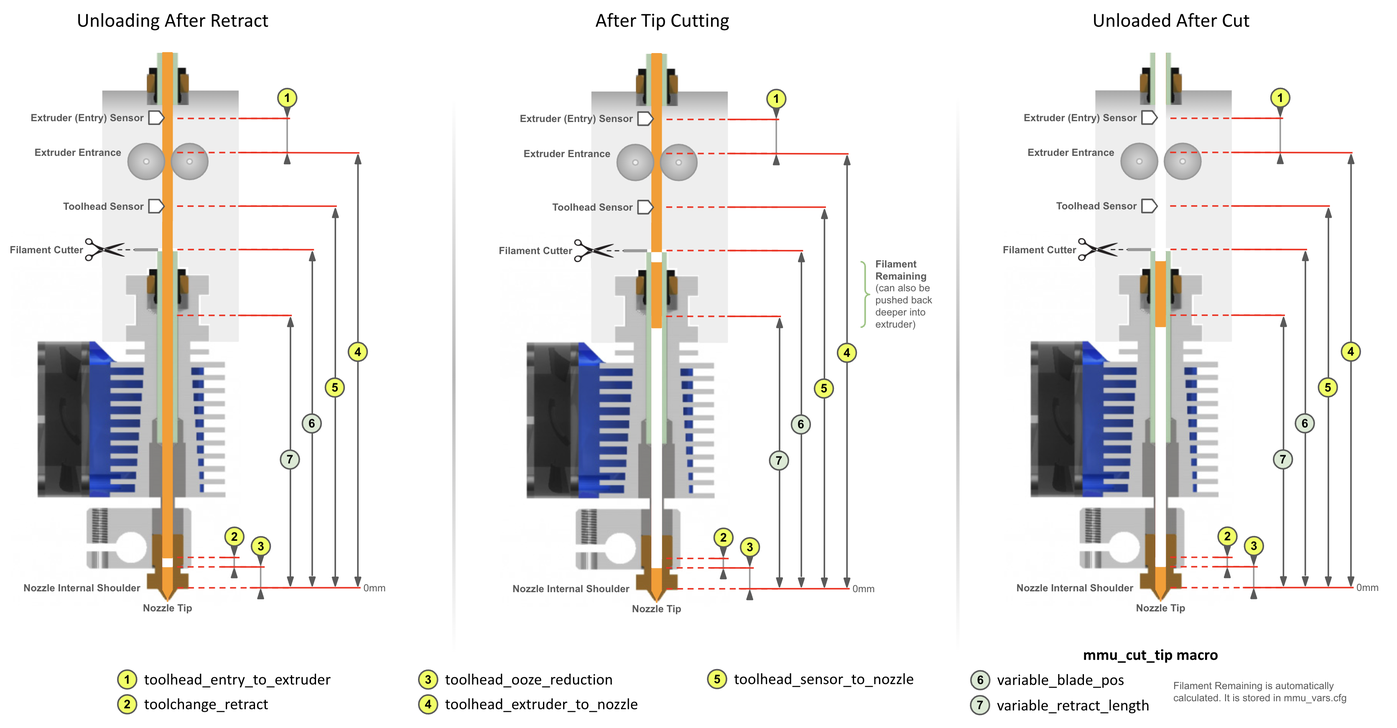
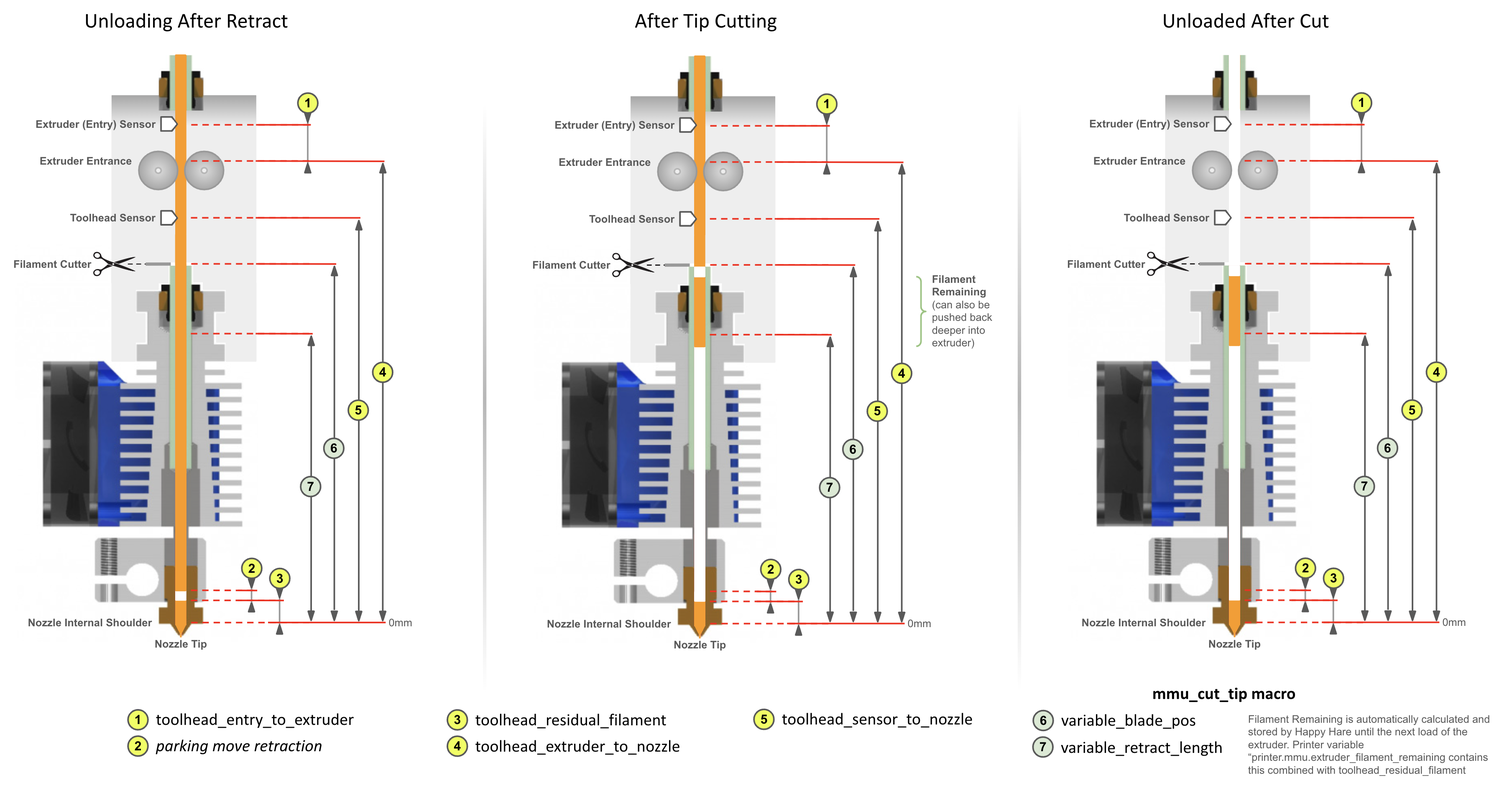
update

diff --git a/Blobbing-and-Stringing.md b/Blobbing-and-Stringing.md
@@ -1,3 +1,14 @@
+#### Page Sections:
+- [Correct Meaning of Key Dimensions](#---correct-meaning-of-key-dimensions)
+- [Calibrating Toolhead](#---calibrating-toolhead)
+  - [Final Blob Tuning](#---final-blob-tuning---toolhead_ooze_reduction)
+  - [Toolchange Retraction](#---tool-change-retraction)
+  - [Z-Hop and Ramping](#---z-hop-and-ramping)
+- [Summary of Tuning Steps](#---summary-of-tuning-steps)
+- [Cleaning Extruder with Cold Pull](#---cleaning-extruder-with-a-cold-pull)
+
+<br>
+
 This discussion assumes that you have initial setup complete and are now ready to tune the quality of your prints. Although some of the information contained here is useful early in your journey it will make a lot more sense once you have some experience with default or "borrowed" toolhead parameters.
 
 This guide will then guide you to optimize a few critical parameters for print qualit that avoids blobbing on your wipetower or print and stringing when moving to change tool.
@@ -6,6 +17,7 @@ Specifically in this guide you will learn how to correctly set the following par
 - `toolhead_extruder_to_nozzle`
 - `toolhead_sensor_to_nozzle`
 - `toolhead_entry_to_extruder`
+- `toolhead_residual_filament`
 - `toolhead_ooze_reduction`
 
 It will also illustrate how to use z-hop movement/ramping and retraction settings to eliminate blobs and stringing during color changes or EndlessSpool operations in your prints (`mmu/base/mmu_macro_vars.cfg`):
@@ -26,9 +38,9 @@ Firstly it is important to understand that while sensors like a toolhead sensor 
 
 When the extruder is loaded, Happy Hare will move the filament a precise distance from either the extruder gear or the toolhead sensor to the end of the nozzle. This distance is set with `toolhead_extruder_to_nozzle` and/or `toolhead_sensor_to_nozzle` and represents the CAD measured distance in a perfectly clean extruder/nozzle. The reality is that once the extruder is "dirty" this distance changes. This is because some filament is inevitably left behind in the extruder/nozzle shortening this distance. The amount of filament remaining seems to vary greatly from a couple of mm to as much as 15mm in some high flow hotends! In addition, CHT type nozzles use an insert that is not accounted for in external toolhead measurements and often neither in CAD, which equally effects the accuraacy of these measurements. 
 
-To account for this, Happy Hare defines `toolhead_extruder_to_nozzle` and `toolhead_sensor_to_nozzle` as theoretical and thus should be able to be pulled form CAD drawings or other users. It uses `toolhead_ooze_reduction` to represent how much to reduce the loading move by for the new filament to butt up against the old without accidently oozing.
+To account for this, Happy Hare defines `toolhead_extruder_to_nozzle` and `toolhead_sensor_to_nozzle` as theoretical and thus should be able to be pulled form CAD drawings or other users. It uses `toolhead_residual_filament` to represent how much to reduce the loading move by for the new filament to butt up against the old without accidently blobbing.
 
-In practice it has been hard to determine these values other than through experimentation and even then it is hard to determine for example, whether to increase `toolhead_ooze_reduction` or reduce `toolhead_sensor_to_nozzle`.
+In practice it has been hard to determine these values other than through experimentation and even then it is hard to determine for example, whether to increase `toolhead_residual_filament` or reduce `toolhead_sensor_to_nozzle`.
 
 Let's run through the important steps in a toolchange (for both tip forming and tip cutting cases) and relate to these parameters:
 
@@ -50,22 +62,26 @@ With toolhead tip cutting the procedure is a little more complex and introduces 
 
 Note that the cut piece of filament remaining and the residual filament are automatically accounted for by Happy Hare so long as you have configured the parameters exactly as defined in this illustration.
 
+> [!TIP] 
+> The printer variable `printer.mmu.extruder_filament_remaining` contains the total length of filament left in the extruder combining both the `toolhead_residual_filament` and length of any cut tip.<br>
+> Related is the printer variable `printer.mmu.toolchange_purge_volume` that calculates the total volume of filament to be purged by summing both the slicer tool map purge volume and the volume of this remaining material.
+
 <br>
 
 > [!IMPORTANT]  
 > 1. The really important reference point is the internal nozzle "shoulder". This is considered the 0mm reference point for most parameters. For CHT nozzle this will be further away from the tip than regular nozzles.
-> 2. You can see how the `toolhead_XXX_to_nozzle` settings and `toolhead_ooze_reduction` are related, so while you can tune the former and ignore latter, it is recommended you use them correctly so that Happy Hare is able to control the filament movement when loading and unloading the toolhead and correctly influence purge volumes.
-> 3. `toolhead_ooze_reduction` is dependent on your extruder and nozzle. High flow and CHT systems generally have a much higher value i.e. more residual filament left over in the extruder) than regular ones.
+> 2. You can see how the `toolhead_XXX_to_nozzle` settings and `toolhead_residual_filament` are related, so while you can tune the former and ignore latter, it is recommended you use them correctly so that Happy Hare is able to control the filament movement when loading and unloading the toolhead and correctly influence purge volumes.
+> 3. `toolhead_residual_filament` is dependent on your extruder and nozzle. High flow and CHT systems generally have a much higher value i.e. more residual filament left over in the extruder) than regular ones.
 
 <br>
 
 ## ![#f03c15](resources/f03c15.png) ![#c5f015](resources/c5f015.png) ![#1589F0](resources/1589F0.png) Calibrating Toolhead
 
-Ok, now you know what the correct meaning of the dimensions are the next question is how to discover them for your setup. For everything other than `toolhead_ooze_reduction` it is possible to use accurate CAD models to measure them (remember to use the internal shoulder in the nozzle). This can be a challenge if using a CHT nozzle as shown below.
+Ok, now you know what the correct meaning of the dimensions are the next question is how to discover them for your setup. For everything other than `toolhead_residual_filament` it is possible to use accurate CAD models to measure them (remember to use the internal shoulder in the nozzle). This can be a challenge if using a CHT nozzle as shown below.
 
 <p align="center"><a href="https://github.com/moggieuk/Happy-Hare/wiki/Blobbing-and-Stringing/CHT_Cutaway.png"><img src="Blobbing-and-Stringing/CHT_Cutaway.png" alt="CHT Cutaway" width="40%"></a></p>
 
-If you have a toolhead sensor there is now an automated way to measure! If not, then you can refer to this wiki in the future, where we will aim to collate verified measurements for common toolhead combinations and once you have those set, you can experiment to discover the correct `toolhead_ooze_reduction` setting.
+If you have a toolhead sensor there is now an automated way to measure! If not, then you can refer to this wiki in the future, where we will aim to collate verified measurements for common toolhead combinations and once you have those set, you can experiment to discover the correct `toolhead_residual_filament` setting.
 
 If you have a toolhead sensor continue reading below.
 
@@ -93,7 +109,7 @@ This will perform a number of probing moves with a cold extruder and report back
 ```
 Reminder:
 1) 'CLEAN=1' with clean extruder for: toolhead_extruder_to_nozzle, toolhead_sensor_to_nozzle (and toolhead_entry_to_extruder)
-2) No flags with dirty extruder (no cut tip) for: toolhead_ooze_reduction (and toolhead_entry_to_extruder)
+2) No flags with dirty extruder (no cut tip) for: toolhead_residual_filament (and toolhead_entry_to_extruder)
 3) 'CUT=1' holding blade in for: variable_blade_pos
 Desired gate should be selected but the filament unloaded
 
@@ -159,18 +175,18 @@ As the tip cutting operation would normally leave additional filament in the too
 
 <br>
 
-### ✅ Step 4: Calibrate ooze reduction (with dirty nozzle)
+### ✅ Step 4: Calibrate residual filament (with dirty nozzle)
 
-Now that the nozzle is “dirty” and simulating the left over material after a filament ejection, it is time to calibrate the ooze reduction variable.
+Now that the nozzle is “dirty” and simulating the left over material after a filament ejection, it is time to calibrate the residual filament parameter.
 
-To do this, run the below command, with no parameters.
+To do this, run the below command, with no arguments.
 
 > MMU\_CALIBRATE\_TOOLHEAD
 ```
 ...blah blah blah...
 -----------------------------------
 Calibration Results (dirty nozzle):
-> toolhead_ooze_reduction: 3.0 (currently: 3.4)
+> toolhead_residual_filament: 3.0 (currently: 3.4)
 -----------------------------------
 New calibrated ooze reduction active until restart. Update mmu_parameters.cfg to persist
 ```
@@ -178,18 +194,19 @@ New calibrated ooze reduction active until restart. Update mmu_parameters.cfg to
 > [!TIP]  
 > 1. You can run a dirty calibration as often as you like and to see if it differs with different filament types, changes you make to your tip forming macro, etc.
 > 2. Just be mindful that filament will grind a little in the gears & the extruder, so make sure you eject the filament fully from your MMU, cut the used portion and try with a new filament segment again.
-> 3. If you are curious, you can also use it as a trick way to measure the "filament_remaining" after tip cutting, validating that you are not cutting molten filament. Just remember to use the SAVE=0 option because you DON'T want to `toolhead_ooze_reduction` to include the cut piece of filament!
+> 3. If you are curious, you can also use it as a trick way to measure the "filament_remaining" after tip cutting, validating that you are not cutting molten filament. Just remember to use the SAVE=0 option because you DON'T want to `toolhead_residual_filament` to include the cut piece of filament!
 > 4. Again you can use the optional command SAVE=0 to skip saving the results in memory. 
 > 5. If you don’t have a filament cutter, the calibration process is done. Make sure you note down the above measurements and update them together with the ones from the first step in your `mmu_parameters.cfg` file. If you do have a filament cutter, make sure you follow step 4 below.  
 > 6. If you have a belay sensor (filament tension/compression sensor) installed on your Bowden path, make sure you “lock” it in place so it doesn’t move. It is important that the filament path length stays static throughout the calibration process. You can either remove it and install a coupler or simply hold it firmly in its fully extended position when the calibration commands are run.
 
-Remember, that the calibrated `toolhead_ooze_reduction` is your starting point. You can still adjust this according to what you see happening with the wipetower with and actual print. See [Tip Forming and Purging](Tip-Forming-and-Purging#tuning-toolhead_ooze_reduction) for details on what to look for.
+> [!IMPORTANT] 
+> Remember, that the calibrated `toolhead_residual_filament` is your starting point. You can still fine tune the reduction in loading length according to what you see happening with the wipetower with and actual print. See [Tip Forming and Purging](Tip-Forming-and-Purging#tuning-toolhead_ooze_reduction) for details on what to look for and how to use `toolhead_ooze_reduction` as the final parameter to tweak load volume. But a word of warning, this should be the very last step and should only be a very small adjustment to optimize blobbing and oozing during tool loading.
 
 <table>
 <tr>
 <td>
 
-Again referring back to the earlier illustrations, the difference between the clean reading and the dirty one is what `toolhead_ooze_reduction` compensates for and represents the residual filament that is always left behind in the extruder. The command will also measure the `toolhead_entry_to_extruder` variable but these should be similar (as in less than 1mm difference) between the two runs. If this is substantially different, you can re-run the calibration routine as the measurement was probably not accurate enough the first time.
+Again referring back to the earlier illustrations, the difference between the clean reading and the dirty one is what `toolhead_residual_filament` compensates for and represents the residual filament that is always left behind in the extruder. The command will also measure the `toolhead_entry_to_extruder` variable but these should be similar (as in less than 1mm difference) between the two runs. If this is substantially different, you can re-run the calibration routine as the measurement was probably not accurate enough the first time.
 
 </td>
 <td width=30%>
@@ -253,7 +270,7 @@ Referencing earlier illustrations, the blade position `variable_blade_pos` can t
   | Order | Option | Description |
   | ----- |------ | ----------- |
   | 1 | `CLEAN=1` | This will calibrate `toolhead_extruder_to_nozzle`, `toolhead_sensor_to_nozzle`, `toolhead_entry_to_extruder` and MUST be run on clean extruder after cold-pull | 
-  | 2 | _none_ | This will calibrate `toolhead_ooze_reduction` and should be run with a dirty extruder where tip has been formed for filament retracted from extruder. It must not be run after tip cutting |
+  | 2 | _none_ | This will calibrate `toolhead_residual_filament` and should be run with a dirty extruder where tip has been formed for filament retracted from extruder. It must not be run after tip cutting |
   | 3 | `CUT=1` | This will calibrate `variable_blade_pos` and suggest `variable_retract_length` for the tip cutting macro. This MUST be run after loading the extruder and manually cutting the filament and running `MMU_EJECT SKIP_TIP=1` to unload without re-running the tip cutting macro |
 
 <br>
@@ -262,18 +279,28 @@ With the toolhead now properly configured you should experience better basic loa
 
 <br>
 
-## ![#f03c15](resources/f03c15.png) ![#c5f015](resources/c5f015.png) ![#1589F0](resources/1589F0.png) Toolhead Retraction
+## ![#f03c15](resources/f03c15.png) ![#c5f015](resources/c5f015.png) ![#1589F0](resources/1589F0.png) Final blob tuning - `toolhead_ooze_reduction`
 
-Incorrect toolhead dimensions contribute most to blobbing problems, but even when perfect, blobbing can still occur when the toolhead is moved fully loaded. Just like when printing, it is often necessary to relax the pressure in the extruder prior to a travel move to prevent the slow oozing that would otherwise occur. 
+Incorrect toolhead dimensions contribute most to blobbing problems, but even when perfect, blobbing can still occur when the toolhead is loaded. The reason might be air pockets or similar in the extruder or a slight variation in the `toolhead_residual_filament`. Therefore once the toolhead is properly calibrated (with likely fixed values), there is one tuning parameter left. 
 
-This is where the `toolchange_retraction` setting comes in. It is set to the filament retraction distance that will be applied immediately before the z-hop move and any travel movements during the toolchange. All the supplied macros will understand this setting and compensate for this accordingly. 
+This parameter `toolhead_ooze_reduction` should start with a value of 0. It can be tuned to further reduce the extruder loading length to completely eliminate blobs on the wipetower. A positive value will DECREASE the load length by that number of mm. Typically a few mm is all that is required and if you find yourself needing more, check your `toolhead_residual_filament` value. Technically this value can be slightly negative - the effect would be to INCREASE the loading length.
+
+The best way to tune this is while actually printing (it can be altered dynamically during a print with `MMU_TEST_CONFIG`). Refer to this [Tip Forming and Purging](Tip-Forming-and-Purging#tuning-toolhead_ooze_reduction) page for more details.
+
+<br>
+
+## ![#f03c15](resources/f03c15.png) ![#c5f015](resources/c5f015.png) ![#1589F0](resources/1589F0.png) Tool change retraction
+
+Just like when printing, it is usually necessary to relax the pressure in the extruder prior to a travel move to prevent the slow oozing that would otherwise occur. 
+
+This is where the `retraction` setting comes in. It is set to the filament retraction distance that will be applied immediately before the z-hop move and any travel movements during the toolchange. All the supplied macros will understand this setting and compensate for this accordingly. Generally 2-3mm of retraction will minimize oozing although it might be a little higher on high flow systems.
 
 At the end of the toolchange process and immediately following the reversal of the z-hop move, the un-retract will occur to correctly pressurise the extruder again. In this manner the extruder is never fully loaded during travel moves and thus oozing is minimized.
 
-The retraction and un-retraction speed is set with the related `toolchange_retraction_speed` parameter and can thus be set independently (often faster) than your general extruder load/unload speeds.
+The retraction and un-retraction speed is set with the related `variable_retract_speed` and `variable_unretract_speed` variables and can thus be set independently (often faster) than your general extruder load/unload speeds.
 
 > [!NOTE]  
-> The toolhead retract is ONLY applied during a print by Happy Hare and is independent of anything performed by the sequence macros.
+> The retraction settings are configured in the MOVEMENT section of `mmu_macro_vars.cfg` and can be specified independently for different operations including toolchange, print complete, pause, cancel, etc. See this section in [Toolchange Movement](Toolchange-Movement#---overview-of-toolhead-parking-movement) for more details.
 
 <br>
 
@@ -281,7 +308,7 @@ The retraction and un-retraction speed is set with the related `toolchange_retra
 
 When a toolchange occurs, it is preferable to move the toolhead away from the print so the hot nozzle isn't left on the print causing marks. 
 
-However, such travel moves can graze the top of the print. This is mitigated by performing a z-hop move (i.e. raising the toolhead) before travelling. The height of the z-hop move is controlled by the `z_hop_height_toolchange` parameter. It is performed immediately after the toolchange retraction, with usually 2mm being plenty to stay clear of the print.
+However, such travel moves can graze the top of the print. This is mitigated by performing a z-hop move (i.e. raising the toolhead) before travelling. The height of the z-hop move is controlled by the `z_hop` parameter in the toolhead parking and movement section of `mmu_macro_vars.cfg`. It is performed immediately after the toolchange retraction (also specified in the same parking and movement section), with usually 1mm being plenty to stay clear of the print.
 
 Despite the retraction and upward movement many filaments will still have a tendency to "string" because a straight up retraction move pulls viscous filament from the nozzle. 
 
@@ -291,12 +318,33 @@ This ramped z-hop move essentially allows for a fast travel move of a greater di
 
 To ensure the toolhead does not go out of the print plate “bounds”, the horizontal movement component will be performed towards the center of the build plate.
 
-The speed of the z-hop move, whether purely vertical or including a ramp is specified with `z_hop_speed`.
+For full details on how to setup parking and thus define z-hop and retraction movements, read [Toolchange Movement](Toolchange-Movement) page.
 
-> [!TIP]  
-> If employing a z-hop ramp, you will likely want to set a fast speed in the `z_hop_speed` parameter similar to your normal printer x/y travel speed. Klipper will always limit your z travel speed to the speed defined in your [printer] section and thus this will not accidentally try to move vertically faster than possible. If you are not using a ramp then then `z_hop_speed` can be your desired vertical movement only.
+<br>
 
-Finally, the acceleration of the travel move when performing a ramp z-hop is set with `z_hop_accel`. Since klipper will limit the speed and accelaration of the z-axis movement you should set to your desired travel speed. This overrides the acceleration used to print the last feature before the tool change (usually external walls) and restores it back to your slicer set acceleration after the z-hop move is done. However, make sure your [printer] `max_accel` value is set within the mechanical limits of your printer!
+## ![#f03c15](resources/f03c15.png) ![#c5f015](resources/c5f015.png) ![#1589F0](resources/1589F0.png) Summary of Tuning Steps
+
+Proceed in this order:<br>
+1. MMU_CALIBRATE_TOOLHEAD settings are defined in `mmu_parameters.cfg`
+2. toolhead_ooze_reduction is defined in `mmu_parameters.cfg`
+3. PARKING_MOVEMENT_SETUP is defined in MOVEMENT section of `mmu_macro_vars.cfg`
+
+```mermaid
+stateDiagram-v2
+    MMU_Operational --> MMU_CALIBRATE_TOOLHEAD
+    state MMU_CALIBRATE_TOOLHEAD { 
+        direction LR
+        toolhead_XXX_to_nozzle --> toolhead_entry_to_extruder
+        toolhead_entry_to_extruder --> toolhead_residual_filament
+    }
+    MMU_CALIBRATE_TOOLHEAD --> toolhead_ooze_reduction
+    toolhead_ooze_reduction --> PARKING_MOVEMENT_SETUP
+    state PARKING_MOVEMENT_SETUP {
+        direction LR
+        retraction --> z_hop
+        z_hop --> z_hop_ramp
+    }
+```
 
 <br>
 

diff --git a/Tip-Forming-and-Purging.md b/Tip-Forming-and-Purging.md
@@ -57,6 +57,9 @@ MMU_TEST_FORM_TIP cooling_moves=5 unloading_speed=15
 
 It might take 40-50 attempts until you start to home in on the optimum values for your particular extruder.
 
+> [!TIP]  
+> Timesaver: If you have an extruder (entry) sensor configured, then select the bypass before tuning tip forming. Then whenever you insert the filament fragment into the extruder it will automatically be loaded ready for the next test (see `bypass_autoload` setting).
+
 > [!IMPORTANT]  
 > The parameters your just set will only be valid until klipper is restarted. To make this persistent, make sure you edit `mmu_marco_vars.cfg` and your chosen settings.
 
@@ -91,15 +94,19 @@ Clicking on the Show advanced settings in the manual purging volume panel will p
 If you enable the Advanced wiping volume option in the Printer settings, Single Extruder MM setup section, the slicer will use the Pigment percentage, ranging from 0 to 1, to define the purge volume for each swap. You can adjust the different values of this option to finely tune the final purging volume. Note that if you have the same profile for filaments of different colors, you’ll need to duplicate those filament profiles and adjust, for each, the pigment percentage value. Don’t forget to select the proper filament profile for each tool.
 
 ### Purging on the Wipe Tower
-Normally the purging logic is performed by the slicer and written into the g-code. The purged filament will be deposited onto the wipe tower (that is why `enable wipe tower` must be checked to access the purge matrix and then disabled if you want to use the volumes but not the wipe tower. 
+Normally the purging logic is performed by the slicer and written into the g-code. The purged filament will be deposited onto the wipe tower (BTW that is why `enable wipe tower` must be checked to access the purge matrix and then disabled if you want to use the volumes but not the wipe tower).
 
-Even with purge volumes setup correctly the configuration of your toolhead parameters also come into play.  Let's assume that you have correctly defined your toolhead geometry [here](Configuration#---toolhead-loading--unloading) noting that these settings are based on the CAD of your toolhead and are not designed to be tunables. Ok, with that said it is still necessary to fine tune the purging process and altough the toolhead dimensions will effect this, the correct parameter to tune is `toolhead_ooze_reduction` defined in `mmu_parameters.cfg`. This controls a "delta" in the theoretical loading distance. Typically this would be 0 or a small positive value to reduce the load distance so that the extruder doesn't prematurely extrude plastic. 
+Even with purge volumes setup correctly the configuration of your toolhead parameters also come into play.  Let's assume that you have correctly defined your toolhead geometry [here](Configuration#---toolhead-loading--unloading) noting that these settings are based on the CAD of your toolhead and are not designed to be tunables. It is still necessary define `toolhead_residual_filament` - the amount of filament naturally left behind in the extruder after filament ejection. In addition if cutting the filament the tip will still be in the extruder. Unfortunately the slicer has no way to know this information and thus it is often necessary to over-compensate and set large purge volumes.
+
+Later we describe alternative methods of purging controlled by Happy Hare that take into account, both the configured `toolhead_residual_filament` and the cut filament piece to intelligently calculate the necessary extra purge based on your particular setup.
+
 
 <br>
 
 ### Tuning `toolhead_ooze_reduction`
-Once you are printing your first multi filament print, check the purge tower to verify that the `toolhead_ooze_reduction` value is well tuned (at that your dimensional settings are correct).  If you notice over extrusion during loads (i.e., plastic blobs on the purge tower after a load) you need to increase the `toolhead_ooze_reduction` value.
-If you notice big gaps on the purge tower after a load, you need to decrease the `toolhead_ooze_reduction` value. Note that although small negative values are allowed, going negative almost certainly means that the `toolhead_extruder_to_nozzle` or `toolhead_sensor_to_nozzle` are too long. Here is an example purge tower here, with values for the `toolhead_ooze_reduction` from 0 to +14 mm. In this example, the proper value seems to be around 5 mm. Note that because there is some uncertainty in this process (because of the filament tip shape), there will be some slight differences even when the value is the same, as shown in the green to grey and white to orange transitions. As explained in [Blobbing and Stringing](Blobbing-and-Stringing) this value represents the residual filament left behind in extruder (and why if cannot physically be negative). Low flow extruders will typically have a value between 1-5mm and with high flow as high as 15mm.
+Once you are printing your first multi filament print, check the purge tower to verify that the toolhead calibration settings including `toolhead_residual_filament` are correct. If you notice over extrusion during loads (i.e., plastic blobs on the purge tower after a load) you can fine tune using the `toolhead_ooze_reduction` setting. This controls a small delta in the theoretical loading distance. Typically this would be 0 or a small positive value to reduce the load distance so that the extruder doesn't prematurely extrude plastic.  If you find you need a negative or large value (>5mm) it is likely that your toolhead calibration dimensions or `toolhead_residual_filament` settings are sub-optimum and it is recommended that you fix these before tuning `toolhead_ooze_reduction`.
+
+To set, if you notice big gaps on the purge tower after a load, you need to decrease the `toolhead_ooze_reduction` value. Note that although small negative values are allowed, going negative almost certainly means that the `toolhead_extruder_to_nozzle` or `toolhead_sensor_to_nozzle` are too long. Here is an example purge tower here, with values for the `toolhead_ooze_reduction` from -3 to +8 mm. In this example, the proper value seems to be around 1 mm. Note that because there is some uncertainty in this process (because of the filament tip shape), there will be some slight differences even when the value is the same, as shown in the green to grey and white to orange transitions. As explained in [Blobbing and Stringing](Blobbing-and-Stringing) this value represents the final reduction in load length after the length has already been reduced by the `toolhead_residual_filament` and by any cut filament top.
 
 Tweaking this is something that can be done in print with:
 ```
@@ -110,7 +117,7 @@ Just don't forget to persist the final result in `mmu_parameters.cfg` when the p
 <p align="center"><img src="Tip-Forming-and-Purging/toolhead_ooze_reduction.png" width="60%" alt="ooze reduction"></p>
 
 > [!IMPORTANT] 
-> This information is included here as a last resort but really the `toolhead_ooze_reduction` should be set first by calibrating the toolhead in the [Blobbing and Stringing](Blobbing-and-Stringing) section since it represents the amount of residual filament left behind in your extruder.  It is often much bigger that you expect and thus it is important to run the not automated calibration if you have a toolhead sensor so you have an accurate starting point. You would only really need to tweak at most +/-2mm if you calibrated correctly.
+> This information is included here as a last resort but really the `toolhead_residual_filament` should be set first by calibrating the toolhead in the [Blobbing and Stringing](Blobbing-and-Stringing) section since it represents the amount of residual filament left behind in your extruder.  That amount is often much bigger that you expect (2-3mm for low flow extruders and 12-15mm for high flow) and thus it is important to run the not automated calibration if you have a toolhead sensor so you have an accurate starting point. Once you have done this you would only really need to tweak at most +/-3mm with `toolhead_ooze_reduction`
 
 <br>
 

diff --git a/Command-Reference.md b/Command-Reference.md
@@ -48,7 +48,7 @@ Happy Hare MMU commands: (use MMU_HELP SLICER=1 MACROS=1 CALLBACKS=1 TESTING=1 S
   | ------- | ----------- | ---------- |
   | `MMU` | Enable and reset state or disable the MMU. Useful to completely turn off the MMU functionality rather then uninstalling it. Note that persisted state will be reset when re-enabling | `ENABLE=[0\|1]` 0 to disable, 1 to enable. |
   | `MMU_CHANGE_TOOL` | Perform a tool swap (generally called from 'Tx' macros). Use `STANDALONE=1` option in your print_start macro to saftely load the initial tool | `TOOL=[0..n]` Tool number to load. <br>`STANDALONE=[0\|1]` Optional to force standalone logic (tip forming). <br>`QUIET=[0\|1]` Optional to always suppress swap statistics |
-  | `MMU_EJECT` | `MMU_UNLOAD` | Eject filament and park it in the MMU gate or does the extruder unloading part of the unload sequence if in bypass | `EXTRUDER_ONLY=[0\|1]` To force just the extruder unloading (automatic if bypass selected). <br>`SKIP_TIP=[0\|1]` if set the tip forming/cutting macro will be skipped |
+  | `MMU_EJECT` | `MMU_UNLOAD` | Eject filament and park it in the MMU gate or does the extruder unloading part of the unload sequence if in bypass | `EXTRUDER_ONLY=[0\|1]` To force just the extruder unloading (automatic if bypass selected). <br>`SKIP_TIP=[0\|1]` if set the tip forming/cutting macro will be skipped <br>`RESTORE=0` prevents parking logic from restoring toolhead position after the unload. Useful on final eject |
   | `MMU_ENCODER` | Displays the current value of the MMU encoder or explicitly enable or disable the encoder. Note that the encoder state is set automatically so this will only be sticky until next tool change | `ENABLE=[0\|1]` 0=Disable, 1=Enable. <br>`VALUE=..` Set the current distance |
   | `MMU_HELP` | Generate reminder list of command set | `TESTING=1` Also list the testing command. <br>`MACROS=1` Also list the base macro commands. <br>`CALLBACKS=1` Also list the callback macros. <br>`STEPS=1` Also list the individual movement sequence macros for custom loading/unloading control |
   | `MMU_HOME` | Home the MMU selector and optionally selects gate associated with the specified tool | `TOOL=[0..n]` After homing, select gate associated with this tool. <br>`FORCE_UNLOAD=[0\|1]` Optional. If specified will override default intelligent filament unload behavior prior to homing |
@@ -142,7 +142,7 @@ Happy Hare MMU commands: (use MMU_HELP SLICER=1 MACROS=1 CALLBACKS=1 TESTING=1 S
   | `MMU_SOAKTEST_LOAD_SEQUENCE` | Soak testing of load sequence. Great for testing reliability and repeatability| `LOOP=..[10]` Number of times to loop while testing. <br>`RANDOM=[0\|1]` Whether to randomize tool selection. <br>`FULL=[0\|1]` Whether to perform full load to nozzle or short load just past encoder. |
   | `MMU_TEST_BUZZ_MOTOR` | Buzz the sepcified MMU motor. If the gear motor is buzzed it will also report if filament is detected | `MOTOR=[gear\|selector\|servo]`. |
   | `MMU_TEST_CONFIG` | Dump / Change Happy Hare klipper parameters at runtime | `..many..` Best to run MMU_TEST_CONFIG without options to report all parameters than can be specified. <br>`QUIET=1` To suppress the list of current values. Useful for use in a macro. <br> <br>You must manually update mmu_parameters.cfg to persist the change accross restarts. <br> <br>Note: this only modifies Happy Hare klipper parameters in found in mmu_parameters.cfg; Happy Hare macro variables in mmu\_macro\_vars.cfg can be updated in a similar way using `SET_GCODE_VARIABLE`. See [Macro Variable Tip](Configuring-mmu_macro_vars.cfg#time-saving-tip). |
-  | `MMU_TEST_FORM_TIP` | Convenience macro to call to test the standalone tip forming functionality | `..many..` Any valid "\_MMU\_FORM\_TIP" gcode variables found in mmu\_macro\_vars.cfg can be supplied as a parameter and will override the defaults. The overrides will remain active (sticky) until called with "RESET=1" which will cause Happy Hare to revert to starting values (in mmu\_macro\_vars.cfg). <br>`SHOW=1` will just list the current macro variable values and not run macro. <br>`RUN=0` will set the variable but not run the macro. <br>`FORCE_IN_PRINT=1` behave like in print with gear/extruder syncing and current. <br>`EJECT=[0\|1]` Force ejection of filament after tip forming, akin to setting "variable\_final\_eject=1". <br>`RESET=1` Restore in memory override values back to config file defaults. |
+  | `MMU_TEST_FORM_TIP` | Convenience macro to call to test the standalone tip forming functionality | `..many..` Any valid "\_MMU\_FORM\_TIP" gcode variables found in mmu\_macro\_vars.cfg can be supplied as a parameter and will override the defaults. The overrides will remain active (sticky) until called with "RESET=1" which will cause Happy Hare to revert to starting values (in mmu\_macro\_vars.cfg). <br>`SHOW=1` will just list the current macro variable values and not run macro. <br>`RUN=0` will set the variable but not run the macro. <br>`FORCE_IN_PRINT=1` behave like in print with gear/extruder syncing and current. <br>`RESET=1` Restore in memory override values back to config file defaults. |
   | `MMU_TEST_GRIP` | Test the MMU grip of the currently selected tool by gripping filament but relaxing the gear motor so you can check for good contact | None. |
   | `MMU_TEST_LOAD` | Test loading filament from park position in the gate. (MMU_EJECT will unload) | `LENGTH=..[100]` Test load the specified length of filament into selected too. <br>`FULL=[0\|1]` If set to one a full bowden move will occur and filament will home to extruder. |
   | `MMU_TEST_MOVE` | Simple test move the MMU gear stepper | `MOVE=..[100]` Length of gear move in mm. <br>`SPEED=..` (defaults to speed defined to type of motor/homing combination) Stepper move speed. <br>`ACCEL=..` (defaults to min accel defined on steppers employed in move) Motor acceleration. <br>`MOTOR=[gear\|extruder\|gear+extruder\|extruder+gear]` (default: gear) The motor or motor combination to employ. gear+extruder commands the gear stepper and links extruder to movement, extruder+gear commands the extruder stepper and links gear to movement. |

diff --git a/Printer-Variables.md b/Printer-Variables.md
@@ -12,8 +12,9 @@ Happy Hare exposed 'printer' variables that can be used in your own macros.
     printer.mmu.tool : {int} 0..n | -1 for unknown | -2 for bypass
     printer.mmu.gate : {int} 0..n | -1 for unknown
     printer.mmu.active_filament : {dict} of active filament attributes (from gate_map, e.g. active_filament.material, active_filament.color)
-    printer.mmu.next_tool : {int} 0..n | -1 for unknown | -2 for bypass (during a tool change)
     printer.mmu.last_tool : {int} 0..n | -1 for unknown | -2 for bypass (during a tool change after unload)
+    printer.mmu.next_tool : {int} 0..n | -1 for unknown | -2 for bypass (during a tool change)
+    printer.mmu.toolchange_purge_volume : {float} suggested purge volume for current toolchange (mm^3)
     printer.mmu.last_toolchange : {string} description of last change similar to M117 display
     printer.mmu.runout : {bool} DEPRECATED, use printer.mmu.operation == "runout" instead
     printer.mmu.operation : {string} Operation in progress (toolchange, load, unload, runout, pause, cancel, complete)
@@ -43,9 +44,7 @@ Happy Hare exposed 'printer' variables that can be used in your own macros.
     printer.mmu.endless_spool : {int} 0 (disabled) | 1 (enabled) | 2 (additionally enabled for pre-gate sensor)
     printer.mmu.print_start_detection : {int} 0 (disabled) | 1 (enabled) For Klippain
     printer.mmu.reason_for_pause : {string} 
-    printer.mmu.extruder_filament_remaining : {float} amount of cut filament left in the extruder (for toolchange macros)
-    printer.mmu.extruder_residual_filament : {float} amount of residual filament always left in extruder (for toolchange macros)
-    printer.mmu.toolchange_retract : {float} amount of extruder retraction (useful in toolchange macros)
+    printer.mmu.extruder_filament_remaining : {float} amount of residual + cut filament left in the extruder (for toolchange macros)
     printer.mmu.enable_spoolman : {int} 0 (disabled) | 1 (enabled) DEPRECATED, use printer.mmu.spoolman_support instead
     printer.mmu.spoolman_support: {string} spoolman integration mode (off | readonly | push | pull)
 ```

diff --git a/Configuring-mmu_parameters.cfg.md b/Configuring-mmu_parameters.cfg.md
@@ -199,7 +199,7 @@ The `encoder` method, due to the nature of its operation will overshoot a little
 
 `gate_endstop_to_encoder`is the distance between gate end stop and encoder. Only active if both are fitted. This number is positive if the end stop is after the encoder.
 
-`gate_autoload` only applied if you have pre-gate sensors installed, this allow the autoload feature to be explicitly disabled. This is useful if the pregate sensor it placed a long way from the gear. In these cases the `MMU_PRELOAD` command can be manually called to achieve the same results.
+`gate_autoload` only applied if you have pre-gate sensors installed, this allow the autoload feature to be explicitly disabled. This is useful if the pregate sensor it placed a long way from the gear. In these cases the `MMU_PRELOAD` command can be manually called to achieve the same results. See also `bypass_autoload`.
 
 <br>
 
@@ -448,6 +448,8 @@ The following variables are configurable based on your needs, but rarely need me
 `filament_recovery_on_pause` tells Happy Hare to try and figure out where the filament is when a pause occurs. 1 = Run a quick check to determine current filament position on pause/error, 0 = disable.
 
 `retry_tool_change_on_error` tells Happy Hare to automatically retry a failed tool change if enabled (1). If enabled Happy Hare will perform the equivalent of `MMU_RECOVER` + `Tx` (where x is the tool number) commands which usually is all that is necessary to recover. Enabling this can mask problems with your MMU that might need sorted out before enabling.
+
+`bypass_autoload` only applied if you have an extruder (entry) sensor installed, this allow the autoload feature to be explicitly enabled/disabled. This works only on the bypass "gate" and will automatically load the extruder when a filament is offered up to the extruder (similar to the way Prusa printers work).
 
 `print_start_detection` allows Happy Hare to automatically detect start and end of print and call `_MMU_START_PRINT` and `_MMU_END_PRINT`. Disable (0) if you want to include in your own macros.
 

diff --git a/Change-Log.md b/Change-Log.md
@@ -302,3 +302,22 @@ variable_pre_load_position      : -1, -1, 0
 - Start of a new wiki page for KlipperScreen-Happy-Hare edition: [Klipperscreen](KlipperScreen)
 - Wiki pages updated: [Slicer Setup](Slicer-Setup), [Command Reference](Command-Reference), [Happy Hare Parameters](Happy-Hare-Parameters), [Blobbing and Stringing](Blobbing-and-Stringing) and more..
 
+### v2.7.1 (patches)
+- Allow extruder (entry) sensor to be used to autoload extruder when using the bypass. Controlled with new `bypass_autoload` parameter in `mmu_parameters.cfg`
+-
+
+### v2.7.2
+**Addressed design oversight in toolhead calibration settings when cutting tips***
+- Fixes issue where `toolhead_ooze_reduction` parameter was used for two purposes that cancelled each other out and thus prevented use for fine tuning load distance.
+  - The previous `toolhead_ooze_reduction` value will be moved to `toolhead_residual_filament` to better represent what is means
+  - `toolhead_ooze_reduction` will be reset to 0 and used exclusively for tuning the loading length (it's primary purpose)
+  - `MMU_CALBRATE_TOOLHEAD` updated accordingly
+  - Printer variables updated: `printer.mmu.extruder_filament_remaining` now holds the combined `toolhead_residual_filament` + any cut fragment length
+  - Wiki updated
+
+- Experimental printer variable `printer.mmu.toolchange_purge_volume` which is valid during a toolchange and contains the recommended purge volume (from slicer tool map purge volues + volume of any residual filament left in extruder
+
+- Possible TTC mitigations (doing everything possible to give host more headroom)
+  - Absolute minimal writes to `[save_variables]` during toolchange or check gates operations
+  - Improved logger
+

diff --git a/Filament-Bypass.md b/Filament-Bypass.md
@@ -35,3 +35,6 @@ Be sure to manually pull the filament all the way back out of the MMU before sel
 
 > [!NOTE]
 > The `MMU_LOAD` and `MMU_EJECT` automatically add the `EXTRUDER_ONLY=1` flag when the bypass is selected
+
+> [!TIP]
+> A very useful timesaver is automatic extruder loading if you have an extruder (entry) sensor. This is enabled with the `bypass_autoload` setting in `mmu_parameters.cfg`. If enabled, when a filament triggers the sensor the loading will be automatic.
